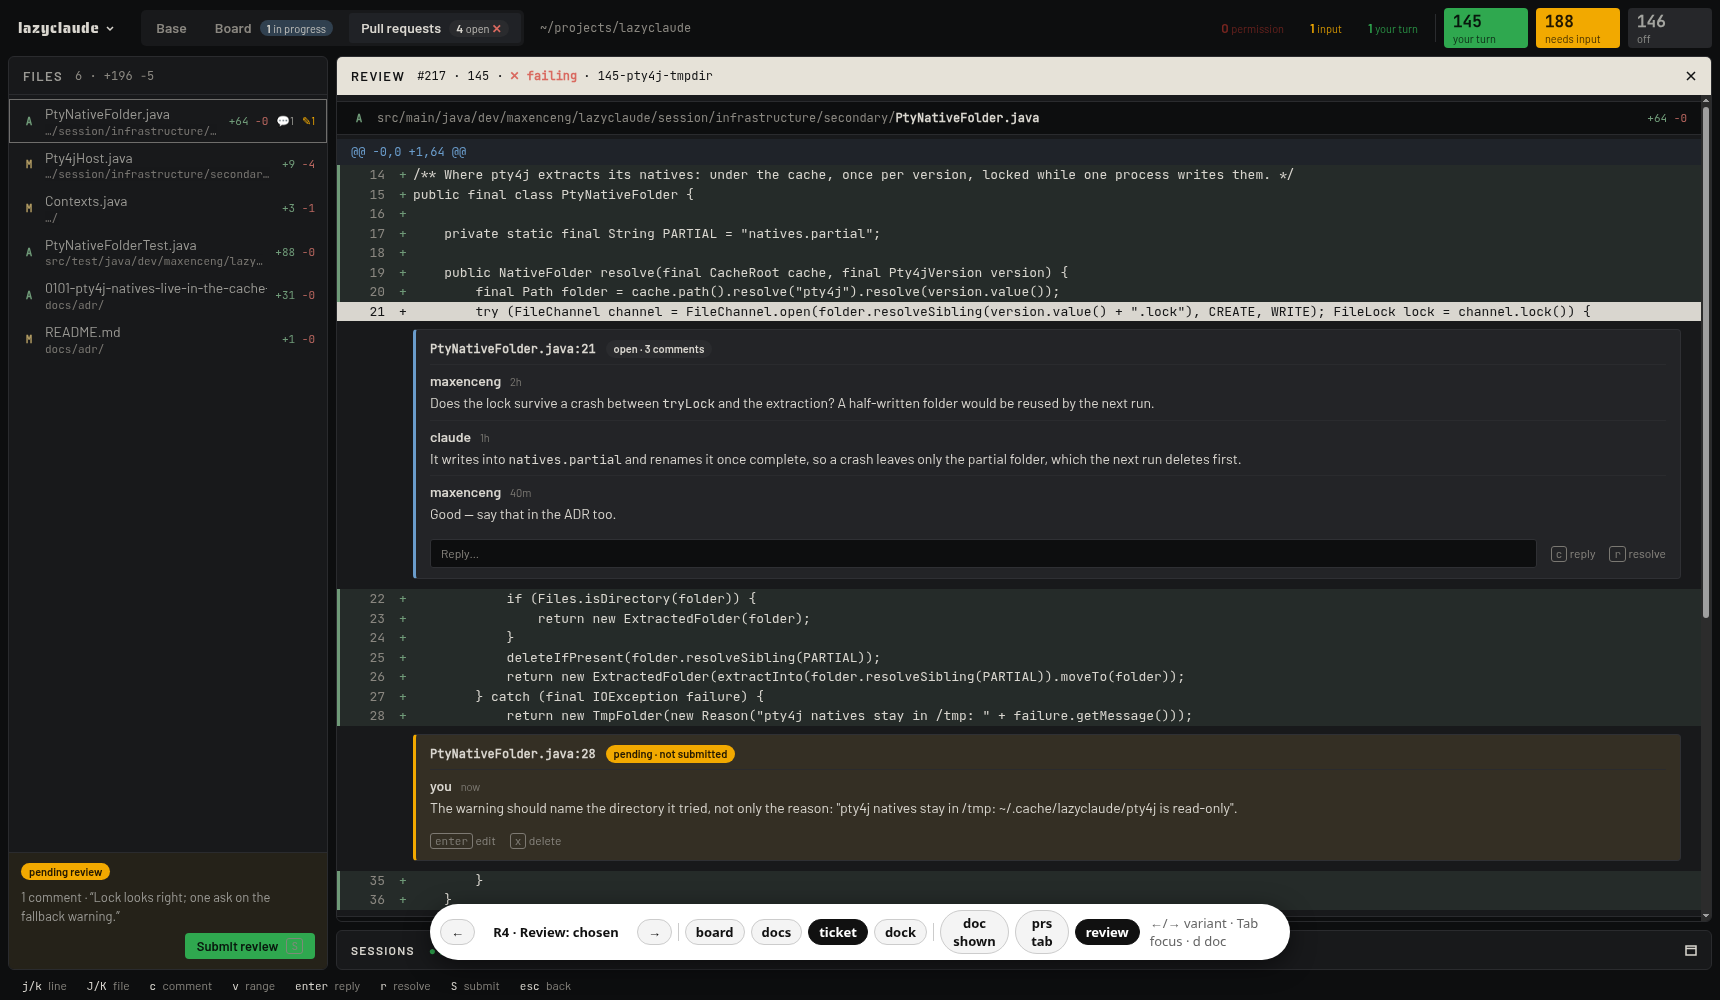
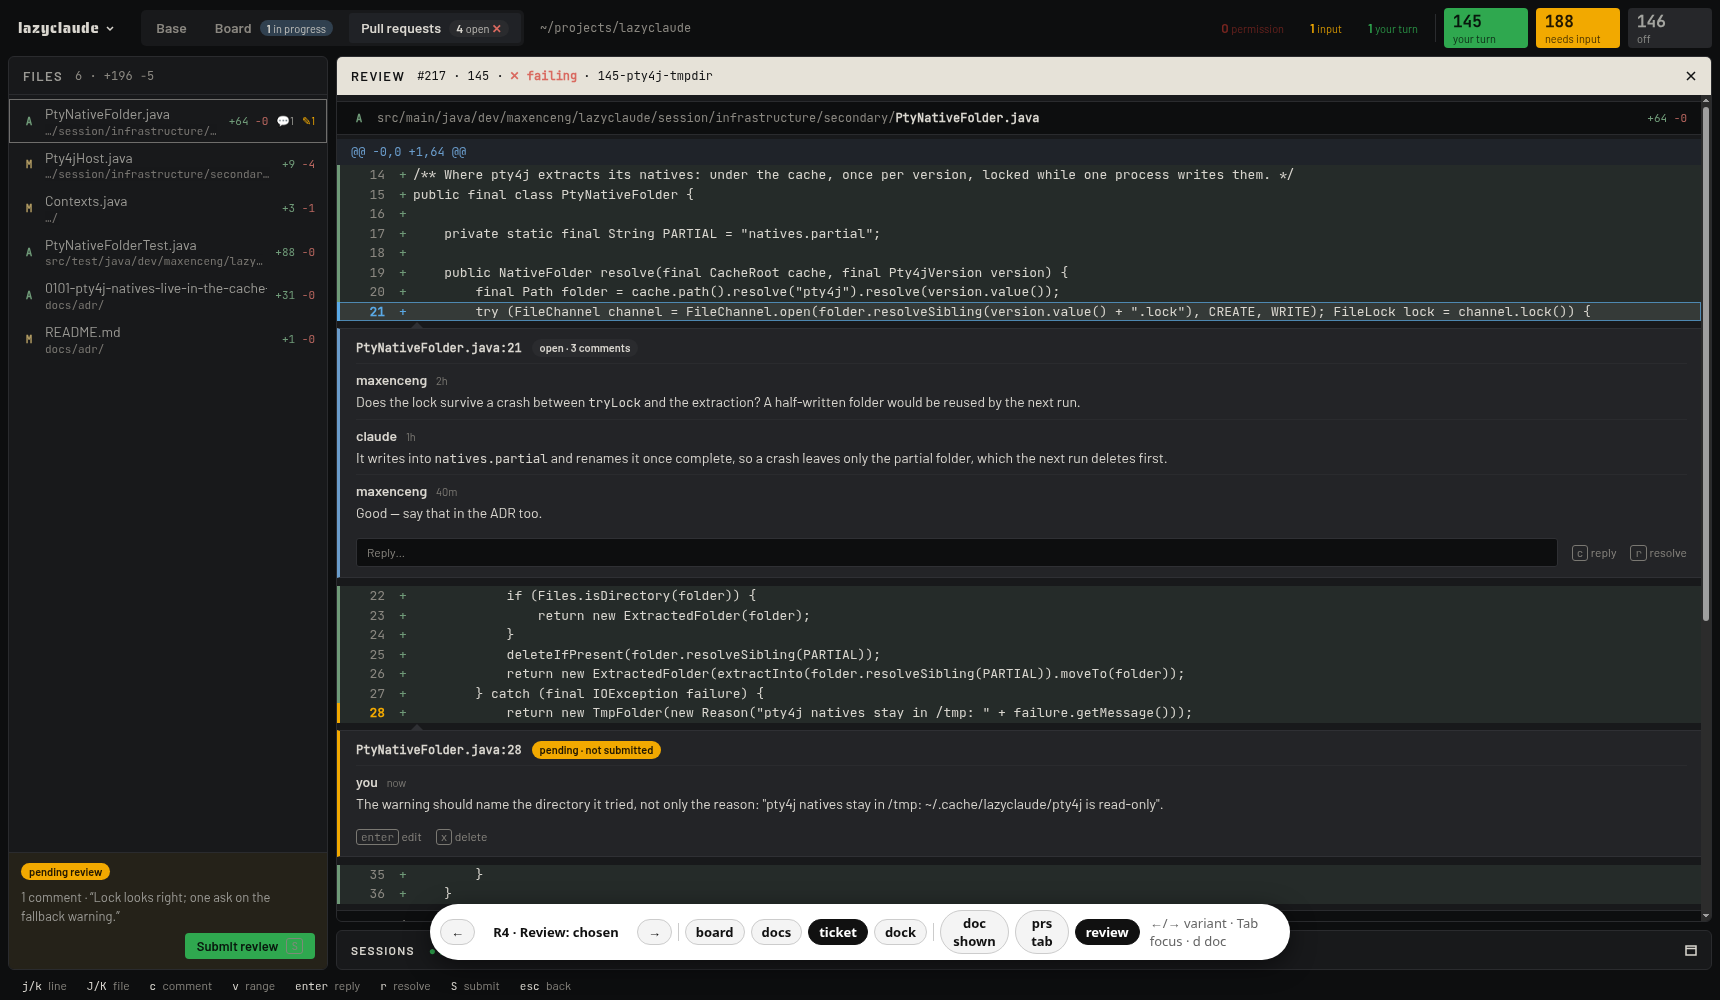
Throwaway prototype: R4's threads span the diff, a quiet cursor, a neutral pending card
PROTOTYPE, not for main. In R4 a thread card runs from the diff pane's
left edge to its right, under the gutter too, hanging from a notch
under its line, whose number and edge are marked in the thread's
colour. The cursor line is a slight lift with a focus-colour outline,
not the lit inverse. The pending comment is a neutral card with an
amber edge and its badge.

diff --git a/frontend/prototype/ux-system/review.css b/frontend/prototype/ux-system/review.css
@@ -693,3 +693,55 @@
   font-size: 13px;
   padding: 4px 2px;
 }
+
+/* R4: threads across the diff's full width, hanging from a marked line; a quiet cursor; a neutral pending card */
+.rv-r4 .rv-inline {
+  padding: 0 0 8px;
+}
+.rv-r4 .rv-inline .rv-thread {
+  position: relative;
+  border-radius: 0;
+  border-left-width: 3px;
+  border-right: 0;
+  margin-top: 7px;
+  padding-left: 16px;
+}
+.rv-r4 .rv-inline .rv-thread::before {
+  content: '';
+  position: absolute;
+  top: -7px;
+  left: 70px;
+  border: 7px solid transparent;
+  border-top: 0;
+  border-bottom-color: var(--card-edge);
+}
+.rv-r4 .rv-has-thread {
+  box-shadow: inset 3px 0 0 var(--ansi-blue);
+}
+.rv-r4 .rv-has-thread .rv-n {
+  color: var(--ansi-blue);
+  font-weight: 600;
+}
+.rv-r4 .rv-pending {
+  background: var(--card);
+  border-left-color: var(--lamp-input);
+}
+.rv-r4 .rv-has-thread:has(+ .rv-inline .rv-pending) {
+  box-shadow: inset 3px 0 0 var(--lamp-input);
+}
+.rv-r4 .rv-has-thread:has(+ .rv-inline .rv-pending) .rv-n {
+  color: var(--lamp-input);
+}
+.rv-r4 .rv-cursor,
+.rv-r4 .vb-focused .rv-cursor {
+  background: color-mix(in srgb, var(--text) 9%, var(--diff-added));
+  color: var(--text);
+  outline: 1px solid color-mix(in srgb, var(--focus) 70%, transparent);
+  outline-offset: -1px;
+}
+.rv-r4 .vb-focused .rv-cursor :is(.rv-n, .rv-sign) {
+  color: var(--focus);
+}
+.rv-r4 .rv-cursor.rv-has-thread {
+  box-shadow: inset 3px 0 0 var(--focus);
+}

diff --git a/frontend/prototype/ux-system/Review.tsx b/frontend/prototype/ux-system/Review.tsx
@@ -422,7 +422,7 @@ const ReviewView = ({ variant, focus, leftTab }: Props) => {
   }
   if (variant === 'r1' || variant === 'r4') {
     return (
-      <main className="rv-review rv-r1">
+      <main className={`rv-review rv-r1 ${variant === 'r4' ? 'rv-r4' : ''}`}>
         <Frame pane="board" focus={focus} title="Files" sub={<span className="vb-sub">6 · +196 −5</span>} className="rv-a-files" footer={<PendingBar wide={false} />}>
           <FileList selected={0} tree />
         </Frame>
